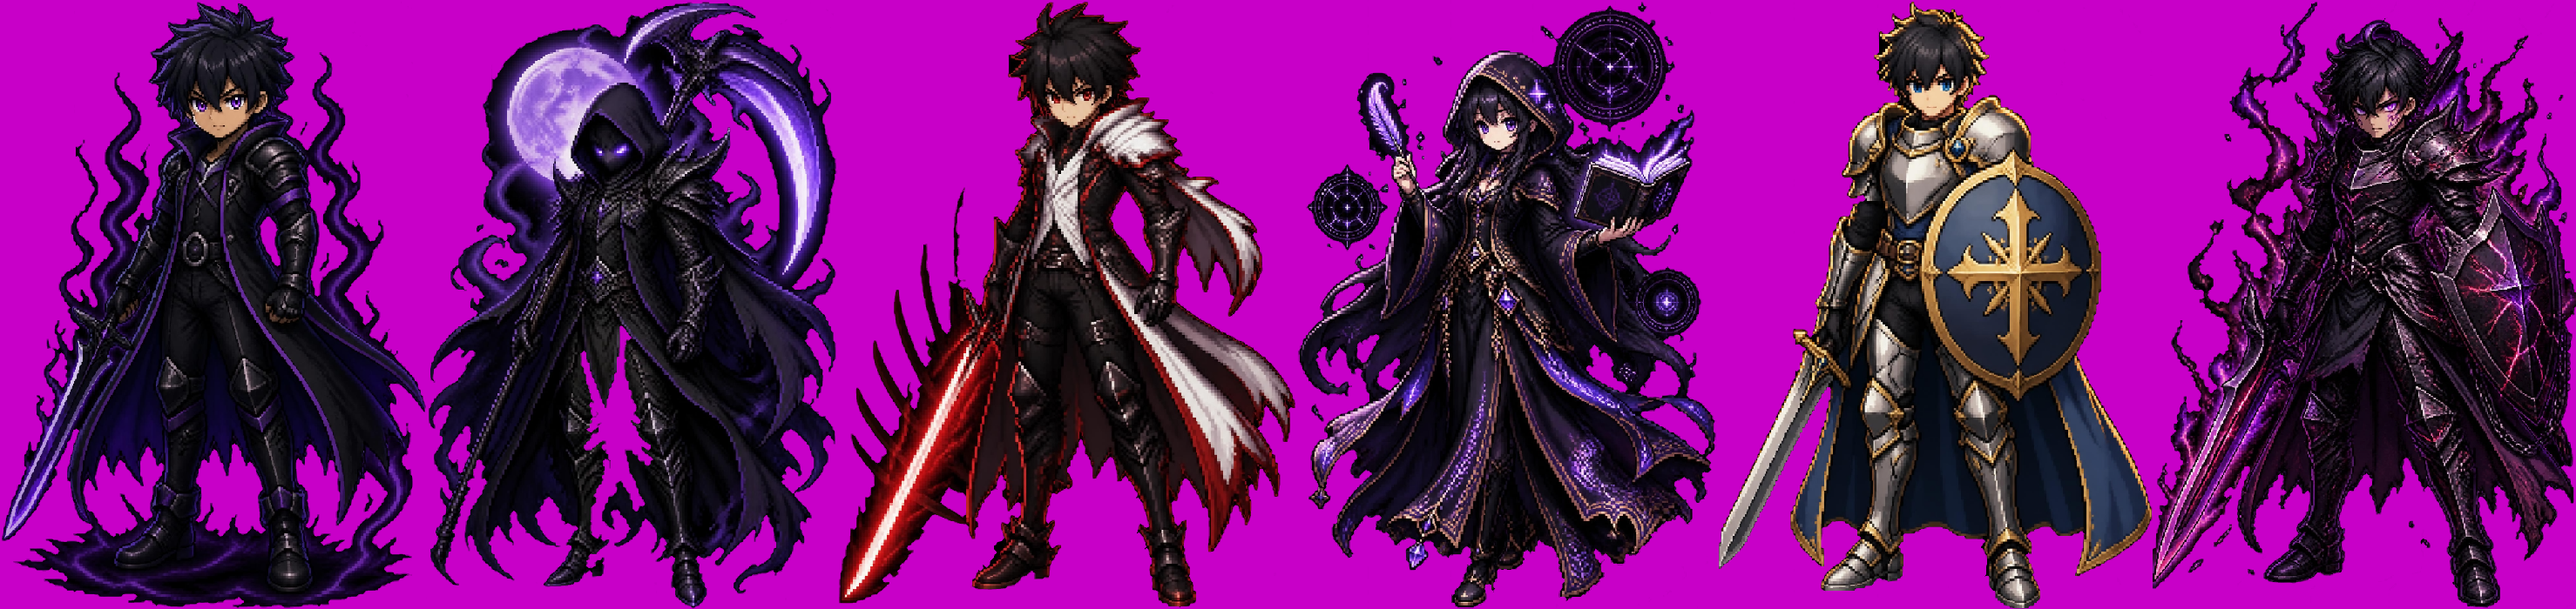
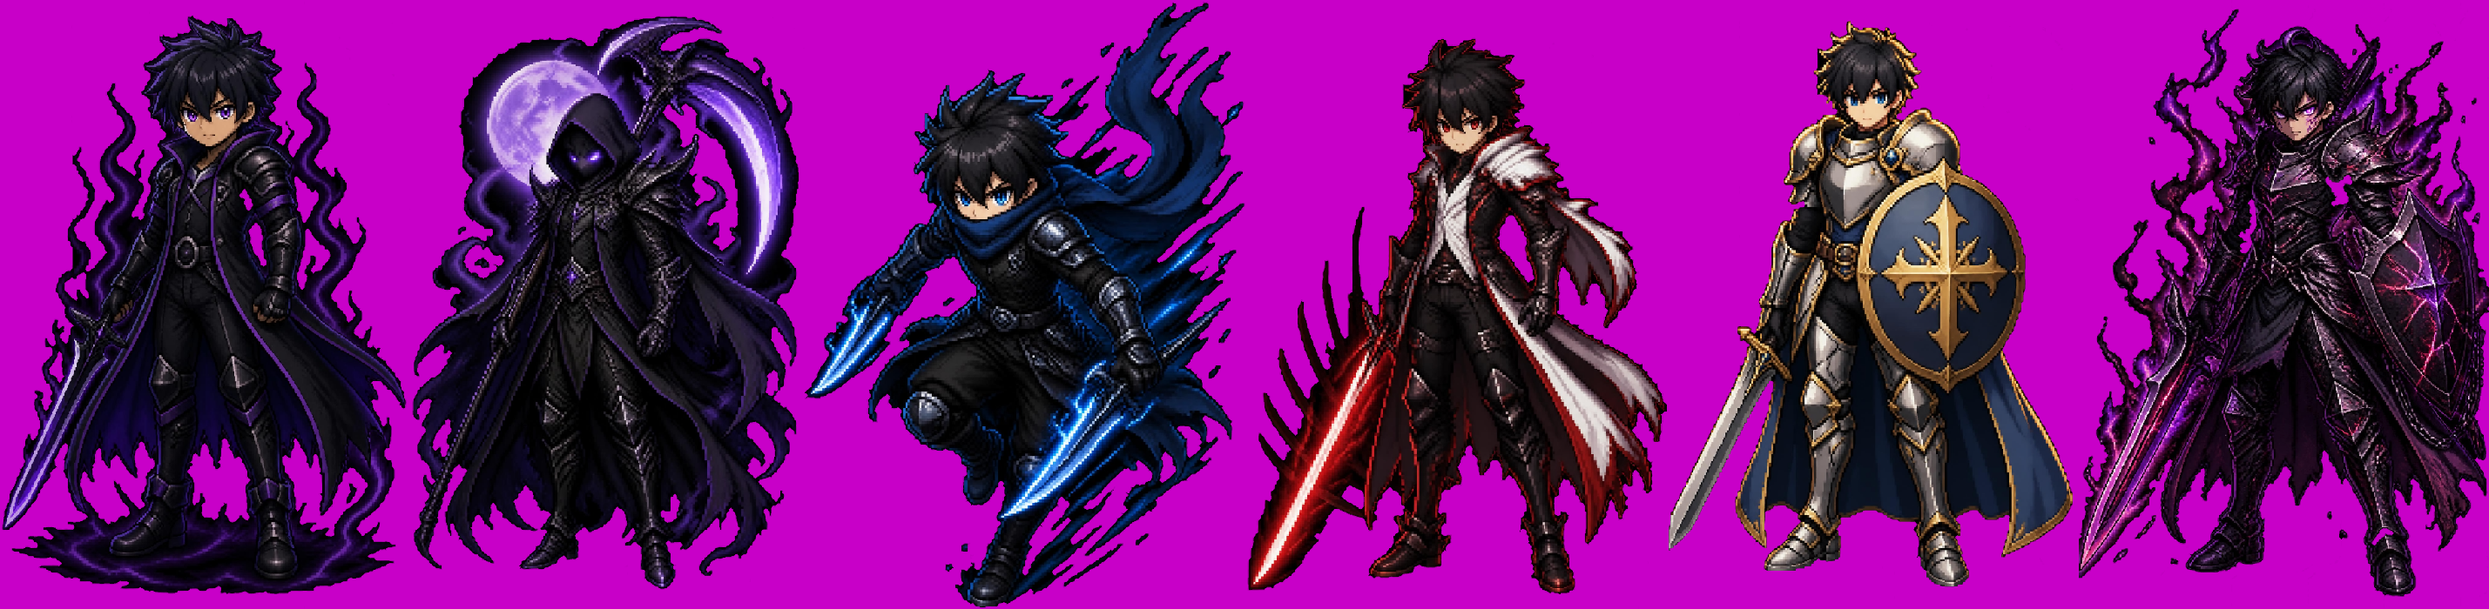
Class art: low cut threshold for dark costumes (Reaper / Duskrunner legs back), per-class overrides

diff --git a/tools/build-class-art.js b/tools/build-class-art.js
@@ -38,7 +38,10 @@ const EMBLEMS = {
   warden_of_dawn: 'AG/image-b4bd3a37-eebd-4dc0-af1f-75699234d299-0.png',
   oathbreaker: 'AG/image-c462c400-5f50-44df-83c1-0d9142ef7bc0-0.png',
 };
-const SPLASH_CUT = { bg: 12, soft: 3, softLum: 36, hole: 0, erode: 5, gap: 0.5, gapMin: 400 }; // gap: enclosed pure-black gaps between limbs / beside blades
+// splash cut: dark costumes (black shins / cloaks reach values 4-12) need a LOW threshold; gaps must be almost all pure black
+const SPLASH_CUT = { bg: 3, soft: 3, softLum: 30, hole: 0, erode: 4, gap: 0.8, gapMin: 400 };
+// per-class overrides: bright armour + AI grey noise around the head (Aegis) -> a higher threshold is safe there
+const SPLASH_CUT_BY = { aegis_guardian: { bg: 12, erode: 5, gap: 0.5 }, warden_of_dawn: { bg: 10, erode: 5, gap: 0.6 }, lumen_oracle: { bg: 10, erode: 5, gap: 0.6 }, oathbreaker: { bg: 6, gap: 0.4 } };
 const EMBLEM_CUT = { bg: 18, soft: 5, softLum: 70, hole: 0 };
 
 // drop small DARK islands left floating in the background (AI noise specks); bright sparks / magic motes are art: kept
@@ -63,7 +66,7 @@ function main() {
   for (const [id, code] of Object.entries(SPLASH)) {
     const f = path.join(SPLASH_DIR, code + '.png');
     if (!fs.existsSync(f)) { console.log('missing splash', id); continue; }
-    const im = shrink(crop(dropSpecks(cutBlack(png.read(f), SPLASH_CUT)), 4), SPLASH_H);
+    const im = shrink(crop(dropSpecks(cutBlack(png.read(f), { ...SPLASH_CUT, ...(SPLASH_CUT_BY[id] || {}) })), 4), SPLASH_H);
     png.write(path.join(OUT, id + '_splash.png'), im);
     meta[id] = { splash: `assets/ui/class/${id}_splash.png`, sw: im.width, sh: im.height };
     previews.push(im);

diff --git a/CLAUDE.md b/CLAUDE.md
@@ -1039,7 +1039,8 @@ Push to GitHub (`origin` = github.com/jepzaze6665-dev/EO-ver0.1, branch `main`) 
   core background (all pixels within R dark) then widen back: dark costumes no longer leak (Reaper robe). Preview on MAGENTA.
   Clean-up pass (owner: black showing between limbs / beside blades): cutBlack option gap (enclosed core-dark regions whose
   share of PURE black (0) >= gap and size >= gapMin are background; costumes are textured, ~20% pure 0) + build-class-art
-  dropSpecks (small dark islands floating in the background). Splash cut = bg 12, erode 5, gap 0.5, gapMin 400.
+  dropSpecks (small dark islands floating in the background). Splash cut = bg 3, erode 4, gap 0.8, gapMin 400 (a higher bg ate the black shins of Reaper / Duskrunner) +
+  SPLASH_CUT_BY per class (Aegis bg 12 for the grey AI noise by the head, Warden / Lumen 10, Oathbreaker bg 6 gap 0.4).
   Check images docs/ui/class_art_check_1.png / _2.png (on magenta).
   Prompts for the art: docs/ui/class_art_prompts.md. tools/tests/classArt.test.mjs.
 - SKILL TREE VIEW (owner reference, made to fit the game): Skills tab = src/ui/skillTreeUI.js — pure layoutTree(cls): special (Q) =
